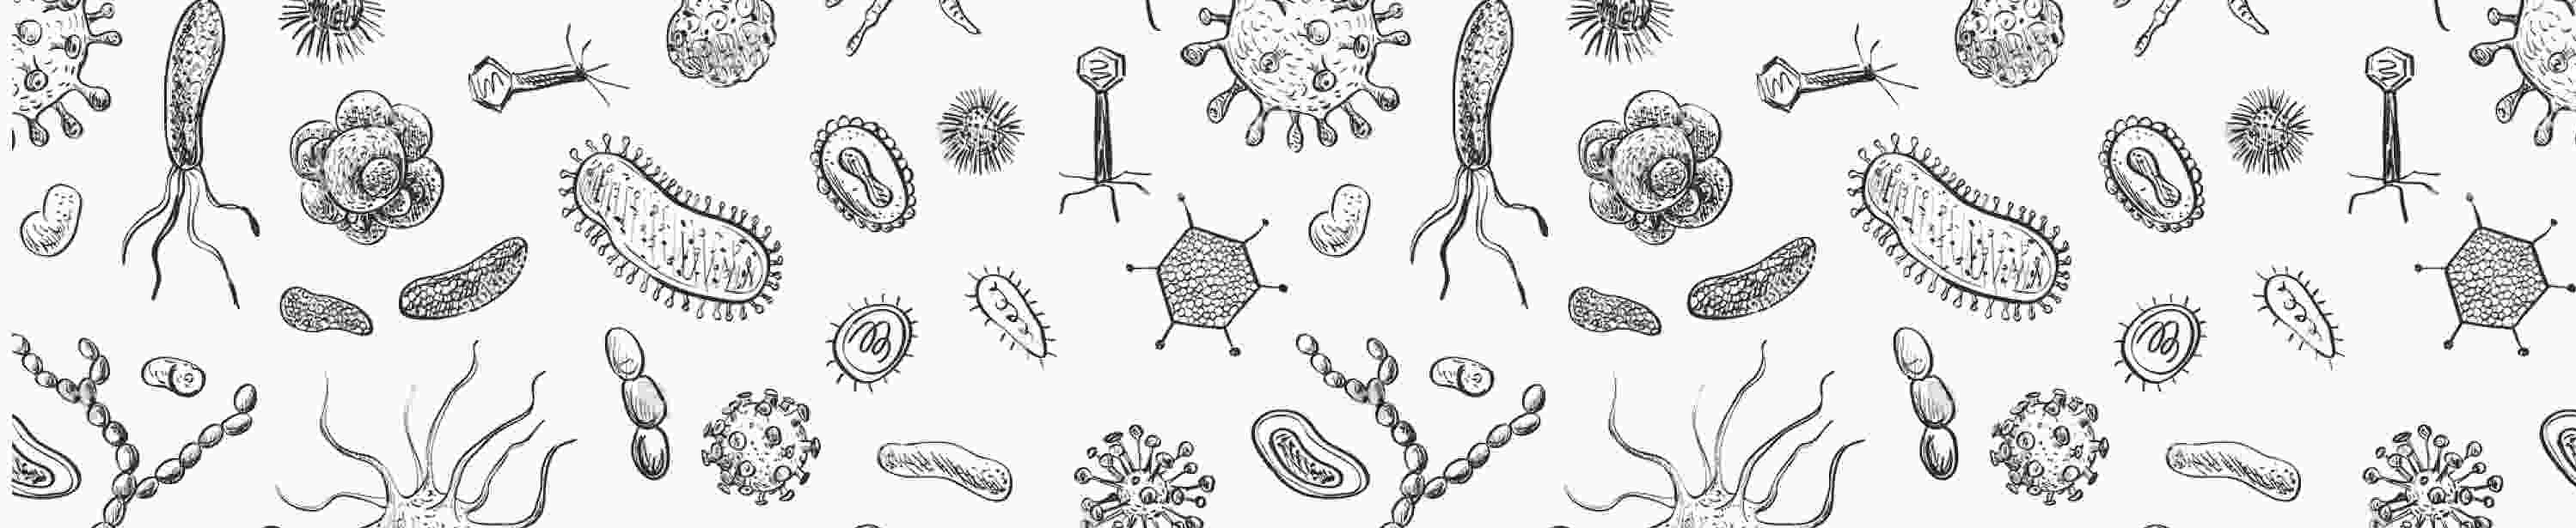
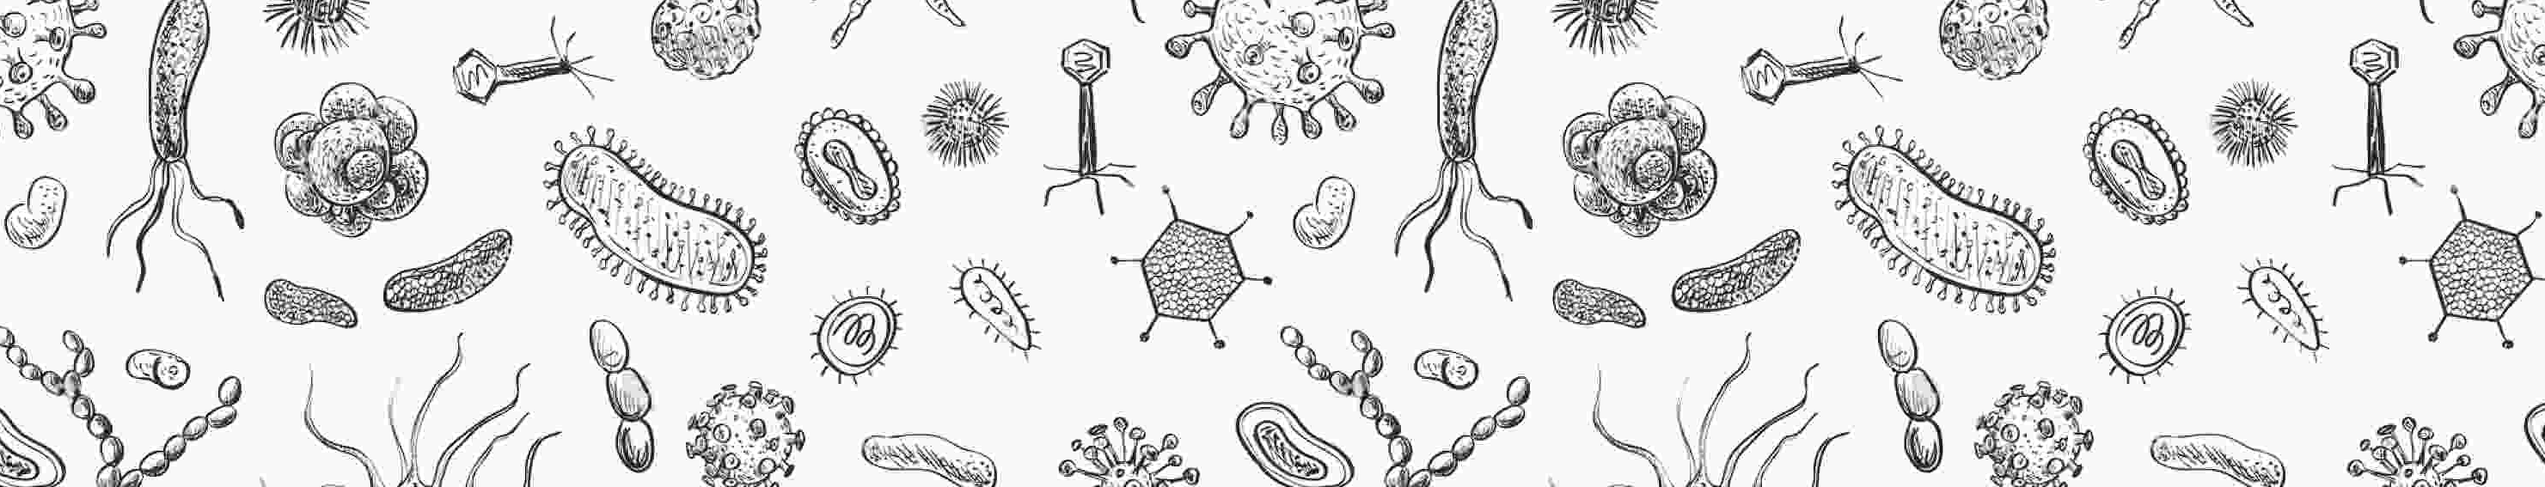
lll

Changed region(s): [[0.0, 0.0, 1.0, 1.0], [0.3728, 0.03, 0.4039, 0.06]]

diff --git a/research/index.html b/research/index.html
@@ -124,7 +124,7 @@
 					hand, how stochasticity affects the evolution of individual traits and the shape of communities.
 				</p>
 				<h3>Characterisation of bacterial communities</h3>
-				<img src="https://lorenzofant.github.io/images/bacteria_a.png">
+				<img src="https://lorenzofant.github.io/images/bacteria_a-min.png">
 				<p>
 					Even though communities are extremely complex objects with hundreds of species interchanging
 					across samples, experimental data show the existence of fundamental quantities, constant across
